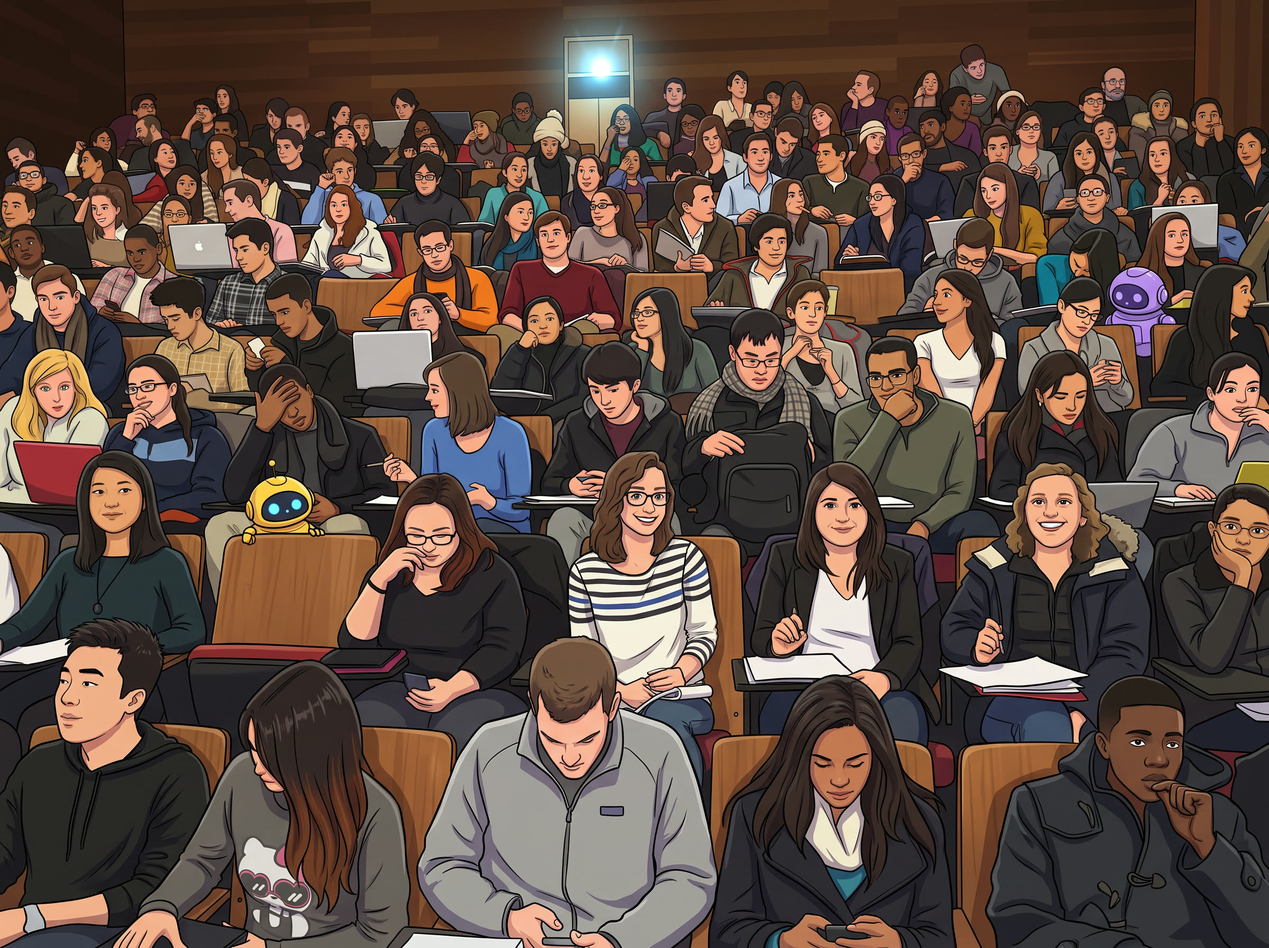
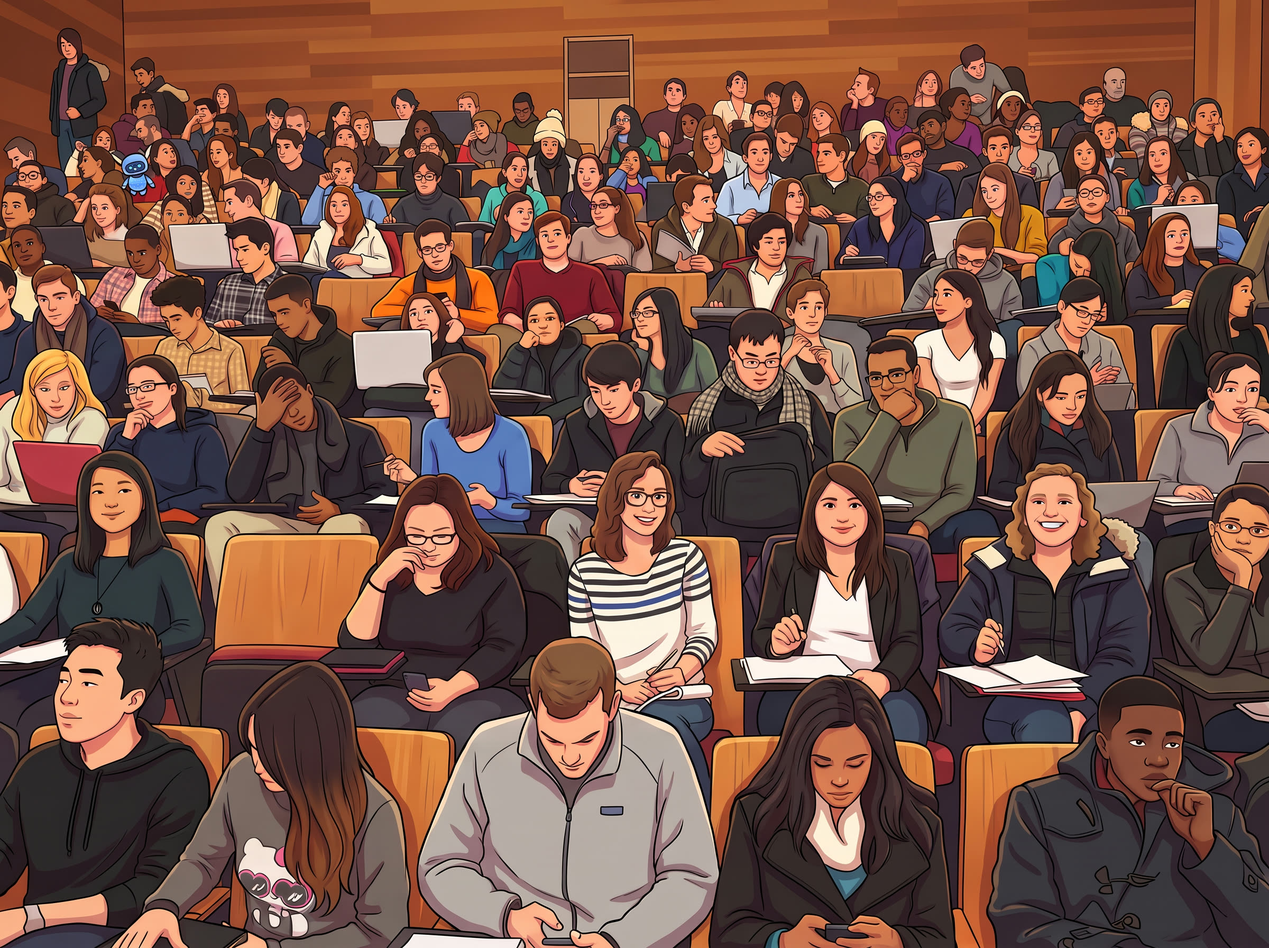
Prova: tek robot, bitiş ekranı tek robota uygun

diff --git a/index.html b/index.html
@@ -109,8 +109,7 @@ const CONFIG = {
   image: "salon.jpg",
   width: 2400, height: 1792,
   robots: [
-    { x: 535,  y: 955, r: 90 },   // soldaki koltuğun arkasından bakan sarı robot
-    { x: 2155, y: 575, r: 100 },  // sağ arka sıralardaki mor robot
+    { x: 262, y: 320, r: 60 },    // sol arka sıralardaki küçük mavi robot
   ],
   maxZoom: 4,
 };
@@ -120,7 +119,7 @@ const view = $("view"), stage = $("stage"), img = $("img");
 const total = CONFIG.robots.length;
 $("total").textContent = total; $("totalStart").textContent = total;
 $("dots").innerHTML = CONFIG.robots.map(() => "<span></span>").join("");
-$("win").querySelector("h1").innerHTML = total === 2 ? "İkisini de<br><em>buldun!</em>" : "Hepsini<br><em>buldun!</em>";
+$("win").querySelector("h1").innerHTML = total === 1 ? "Robotu<br><em>buldun!</em>" : total === 2 ? "İkisini de<br><em>buldun!</em>" : "Hepsini<br><em>buldun!</em>";
 
 let zoom = 1, baseH = 0, found = new Set(), t0 = 0, tick = null, done = false;
 
